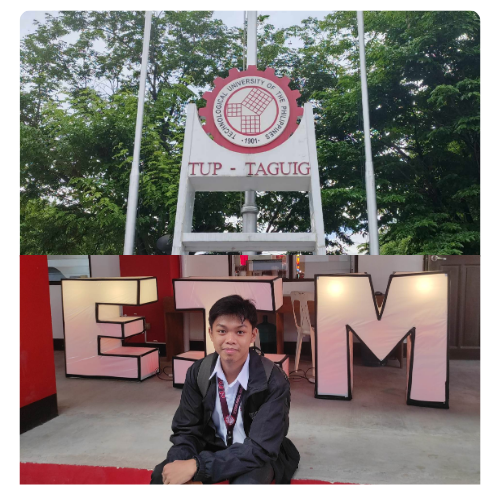
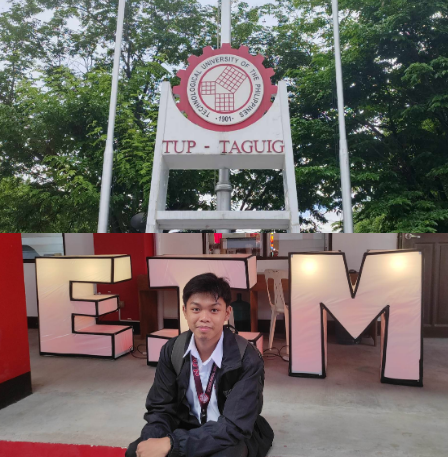
adding some styles

diff --git a/cv.html b/cv.html
@@ -38,7 +38,7 @@
         </div>
       </div>
       <div class="col-lg-4 offset-lg-1 p-0 overflow-hidden shadow-lg">
-          <img src="./assets/img/tup_me.png" alt="tup & me" class="img-fluid" style="border: solid black;">
+          <img src="./assets/img/tup_me.png" alt="tup & me" class="img-fluid" style="border-left: solid 10px black; border-top: solid 5px black;">
       </div>
     </div>
     
